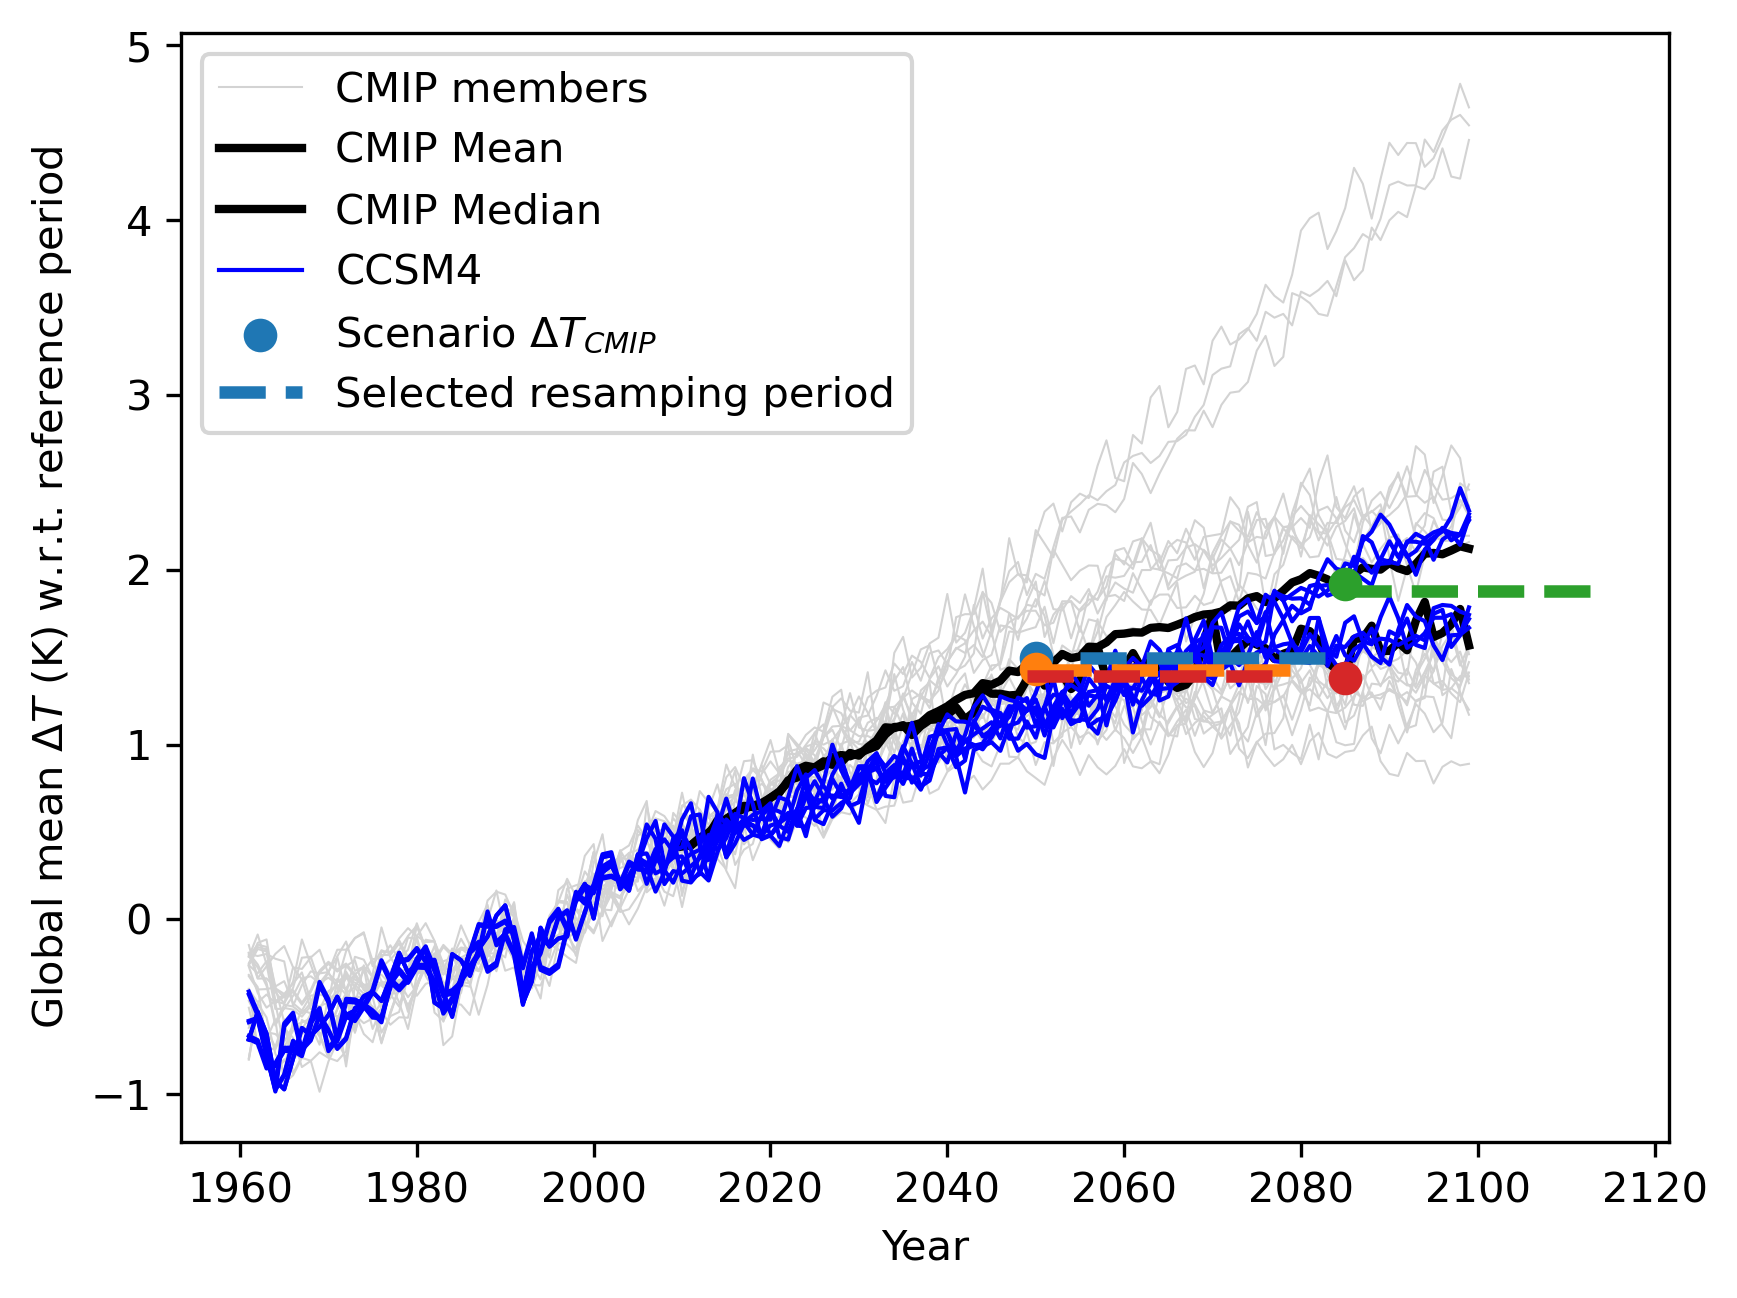
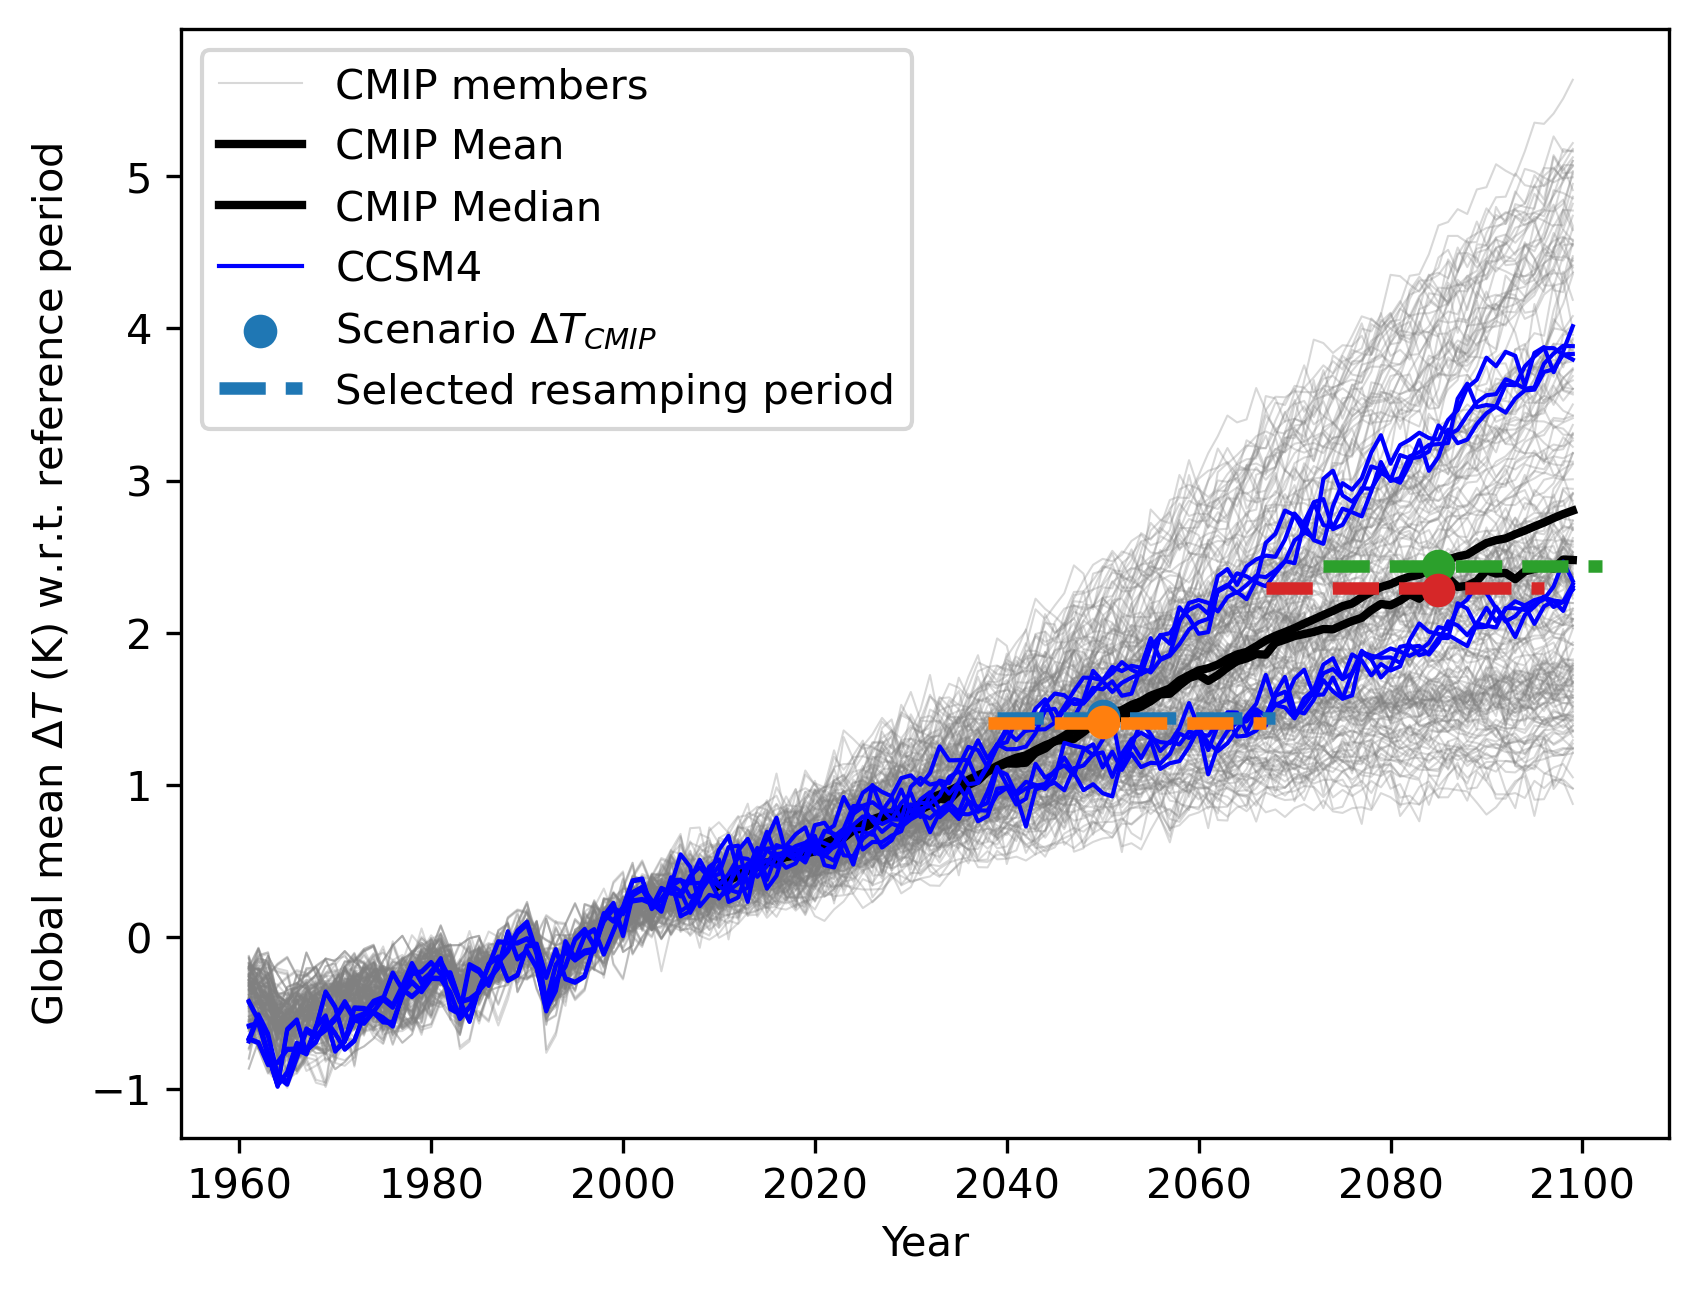
Complete documentation

diff --git a/esmvaltool/diag_scripts/kcs/local_resampling.py b/esmvaltool/diag_scripts/kcs/local_resampling.py
@@ -286,7 +286,7 @@ def _best_subset(combinations, n_sample=8):
 
     # Store the indices in a nice dataframe
     _, n_segments = combinations.shape
-    best_combination = pd.DataFrame(
+    best_subset = pd.DataFrame(
         data=None,
         columns=[f'Segment {x}' for x in range(n_segments)],
         index=[f'Combination {x}' for x in range(n_sample)])
@@ -303,12 +303,13 @@ def _best_subset(combinations, n_sample=8):
             penalty += _penalties(counts).sum()
         if penalty < lowest_penalty:
             lowest_penalty = penalty
-            best_combination.loc[:, :] = subset
+            best_subset.loc[:, :] = subset
 
-    return best_combination
+    return best_subset
 
 
-def select_final_subset(cfg, subsets, n_samples=8):
+def select_final_subset(cfg, subsets, n_samples=8, prov=None):
+    """Select sample with minimal reuse of ensemble segments."""
     all_scenarios = {}
     for scenario, dataframes in subsets.items():
         # Make a table with the final indices
@@ -329,6 +330,11 @@ def select_final_subset(cfg, subsets, n_samples=8):
         LOGGER.info("Selected recombinations for scenario %s: \n %s", scenario,
                     table)
         LOGGER.info('Output stored as %s', filename)
+
+        # Write provenance information
+        with ProvenanceLogger(cfg) as provenance_logger:
+            provenance_logger.log(filename, prov)
+
 
     return all_scenarios
 
@@ -438,14 +444,14 @@ def make_plots(cfg, scenario_tables):
                 for name, info in cfg['scenarios'].items():
                     if year == info['scenario_year']:
                         climate = climates[name].sel(season=season)[variable]
-                        axes.plot(xlocs, climate, label=name)
+                        axes.plot(xlocs, climate, lw=3, label=name)
 
                 axes.set_xticks(xlocs)
                 axes.set_xticklabels([f'P{100*x:02.0f}' for x in percentiles])
         subplots[0, 0].set_ylabel('change (%)')
         subplots[1, 0].set_ylabel('change (K)')
         subplots[1, 1].legend()
-        filename = get_plot_filename(f'envelope_figure_{year}', cfg)
+        filename = get_plot_filename(f'local_validation_{year}', cfg)
         fig.suptitle(f'Year: {year}')
         fig.savefig(filename, bbox_inches='tight', dpi=300)
         LOGGER.info("Envelope figure stored as %s", filename)
@@ -491,12 +497,7 @@ def main(cfg):
     subsets = get_percentile_subsets(cfg, segment_season_means, top1000s)
 
     # Step 3
-    scenarios = select_final_subset(cfg, subsets, n_samples=8)
-
-    # Write provenance information (only used target model data so far)
-    filename = get_diagnostic_filename('all_scenarios', cfg)
-    with ProvenanceLogger(cfg) as provenance_logger:
-        provenance_logger.log(filename, provenance)
+    scenarios = select_final_subset(cfg, subsets, n_samples=8, prov=provenance)
 
     # Step 4: Plot the results
     if cfg['write_plots']:

diff --git a/esmvaltool/diag_scripts/kcs/global_matching.py b/esmvaltool/diag_scripts/kcs/global_matching.py
@@ -89,7 +89,7 @@ def make_plot(metadata, scenarios, cfg):
         dataset = xr.open_dataset(filename)
         if not 'MultiModel' in filename:
             ax.plot(dataset.time.dt.year, dataset.tas.values,
-                    c='lightgrey', lw=.5, label=cmip_legend_label)
+                    c='grey', alpha=0.3, lw=.5, label=cmip_legend_label)
             cmip_legend_label = "_nolegend_"  # prevent repeated labels
         else:
             statistic = 'CMIP ' + Path(filename).stem.split('_')[0][10:]
@@ -131,7 +131,8 @@ def save(output, cfg, provenance):
     scenarios = pd.DataFrame(output)
     filename = get_diagnostic_filename('scenarios', cfg, extension='csv')
     scenarios.to_csv(filename)
-    print(scenarios)
+    import IPython; IPython.embed()
+    print(scenarios.round(2))
     print(f"Output written to {filename}")
     with ProvenanceLogger(cfg) as provenance_logger:
         provenance_logger.log(filename, provenance)
@@ -159,7 +160,7 @@ def main(cfg):
             'percentile': percentile,
             'cmip_dt': cmip_dt,
             'period_bounds': bounds,
-            'target_dt': target_dt,
+            'target_dt': float(target_dt),
             'pattern_scaling_factor': cmip_dt / target_dt
         }
         scenarios.append(scenario)

diff --git a/doc/sphinx/source/recipes/recipe_kcs.rst b/doc/sphinx/source/recipes/recipe_kcs.rst
@@ -31,6 +31,10 @@ In the second diagnostic, for for both the control and future periods, the 8 EC-
 3. Use a monte-carlo method to make a final selection of 8 resamples with minimal reuse of the same ensemble member/segment.
 
 
+.. note::
+    We highly recommend using the options described in :ref:`rerunning`. The speed bottleneck for the first diagnostic is the preprocessor. In the second diagnostic, step 1 is most time consuming, whereas steps 2 and 3 are likely to be repeated several times. Therefore, intermediate files are saved after step 1, and the diagnostic will automatically detect and use them if the :code:`-i` flag is used.
+
+
 Available recipes and diagnostics
 ---------------------------------
 
@@ -67,7 +71,7 @@ Diagnostics:
     .. code-block:: yaml
 
         scenarios:
-          ML:
+          ML_MOC:
             description: "Moderate / low changes in seasonal temperature & precipitation"
             global_dT: 1.0
             scenario_year: 2050
@@ -89,11 +93,12 @@ The diagnostic :code:`global matching` produces a scenarios table like the one b
 
 .. code-block:: python
 
-         year percentile   cmip_dt period_bounds           target_dt  pattern_scaling_factor
-      0  2050       Mean  1.494123  [2055, 2084]   1.496281513828891                0.998557
-      1  2050     Median  1.434082  [2051, 2080]  1.4258415170339225                1.005779
-      2  2085       Mean  1.916866  [2085, 2114]   1.877538437763913                1.020946
-      3  2085     Median  1.383674  [2049, 2078]  1.3914389868132169                0.994419
+       year percentile  cmip_dt period_bounds  target_dt  pattern_scaling_factor
+    0  2050       Mean     1.45  [2039, 2068]       1.44                    1.01
+    1  2050     Median     1.41  [2038, 2067]       1.41                    1.00
+    2  2085       Mean     2.44  [2073, 2102]       2.44                    1.00
+    3  2085     Median     2.28  [2067, 2096]       2.29                    1.00
+
 
 which is printed to the log file and also saved as a csv-file :code:`scenarios.csv`.
 Additionally, a figure is created showing the CMIP spread in global temperature change,
@@ -103,9 +108,32 @@ AND highlighting the selected steering parameters and resampling periods:
 .. figure::  /recipes/figures/kcs/global_matching.png
    :align:   center
 
+The diagnostic :code:`local_resampling` procudes a number of output files:
 
-.. TODO Add second diagnostic output
+* :code:`season_means_<scenario>.nc`: intermediate results, containing the season means for each segment of the original target model ensemble.
+* :code:`top1000_<scenario>.csv`: intermediate results, containing the 1000 combinations that have been selected based on winter mean precipitation.
+* :code:`indices_<scenario>.csv`: final resuls, showing the final set of resamples as a table:
 
+  .. code-block:: python
+
+                      control                                                      future
+                    Segment 0 Segment 1 Segment 2 Segment 3 Segment 4 Segment 5 Segment 0 Segment 1 Segment 2 Segment 3 Segment 4 Segment 5
+      Combination 0         0         1         6         1         4         6         6         4         1         5         5         6
+      Combination 1         4         6         0         2         1         3         6         5         7         2         5         6
+      Combination 2         2         0         2         7         3         4         4         7         5         5         5         2
+      Combination 3         6         7         0         6         7         7         4         7         6         0         5         4
+      Combination 4         5         1         6         6         4         6         6         7         7         2         5         6
+      Combination 5         2         6         5         2         1         3         7         5         5         1         5         5
+      Combination 6         6         3         5         1         7         7         7         4         6         0         5         5
+      Combination 7         4         0         4         7         3         4         4         4         5         6         5         2
+
+* Provenance information: bibtex, xml, and/or text files containing citation information are stored alongside the final result and the final figure.
+  The final combinations only derive from the target model data, whereas the figure also uses CMIP data.
+* A figure used to validate the final result, reproducing figures 5 and 6 from Lenderink et al.:
+
+.. _fig_kcs_local_validation:
+.. figure::  /recipes/figures/kcs/local_validation_2085.png
+   :align:   center
 
 
 References

diff --git a/doc/sphinx/source/faq.rst b/doc/sphinx/source/faq.rst
@@ -6,7 +6,7 @@ Frequently Asked Questions
 Is there a mailing list?
 ========================
 
-Yes, you can subscribe to the ESMValTool user mailing list and join the discussion on general topics (installation, configuration, etc). See :ref:`mailing-list`. 
+Yes, you can subscribe to the ESMValTool user mailing list and join the discussion on general topics (installation, configuration, etc). See :ref:`mailing-list`.
 
 What is YAML?
 =============
@@ -24,8 +24,10 @@ encountered this language before. The key information about this format is:
 More information can be found in the `yaml tutorial
 <https://learnxinyminutes.com/docs/yaml/>`_ and `yaml quick reference card
 <https://yaml.org/refcard.html>`_. ESMValTool uses the `yamllint
-<http://www.yamllint.com>`_ linter tool to check recipe syntax. 
+<http://www.yamllint.com>`_ linter tool to check recipe syntax.
 
+
+.. _rerunning:
 
 Re-running diagnostics
 ======================
